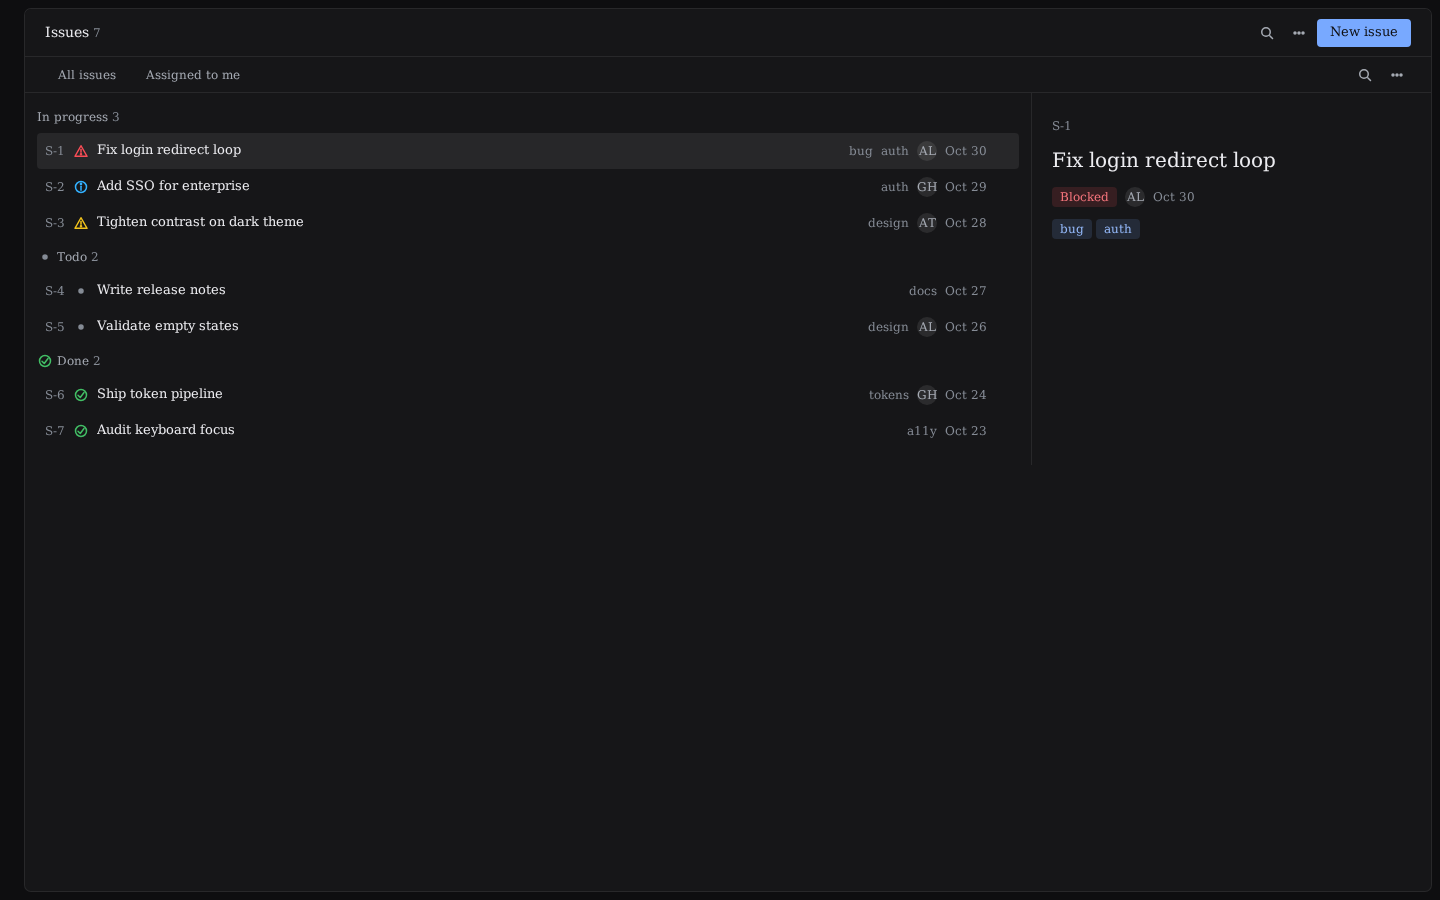
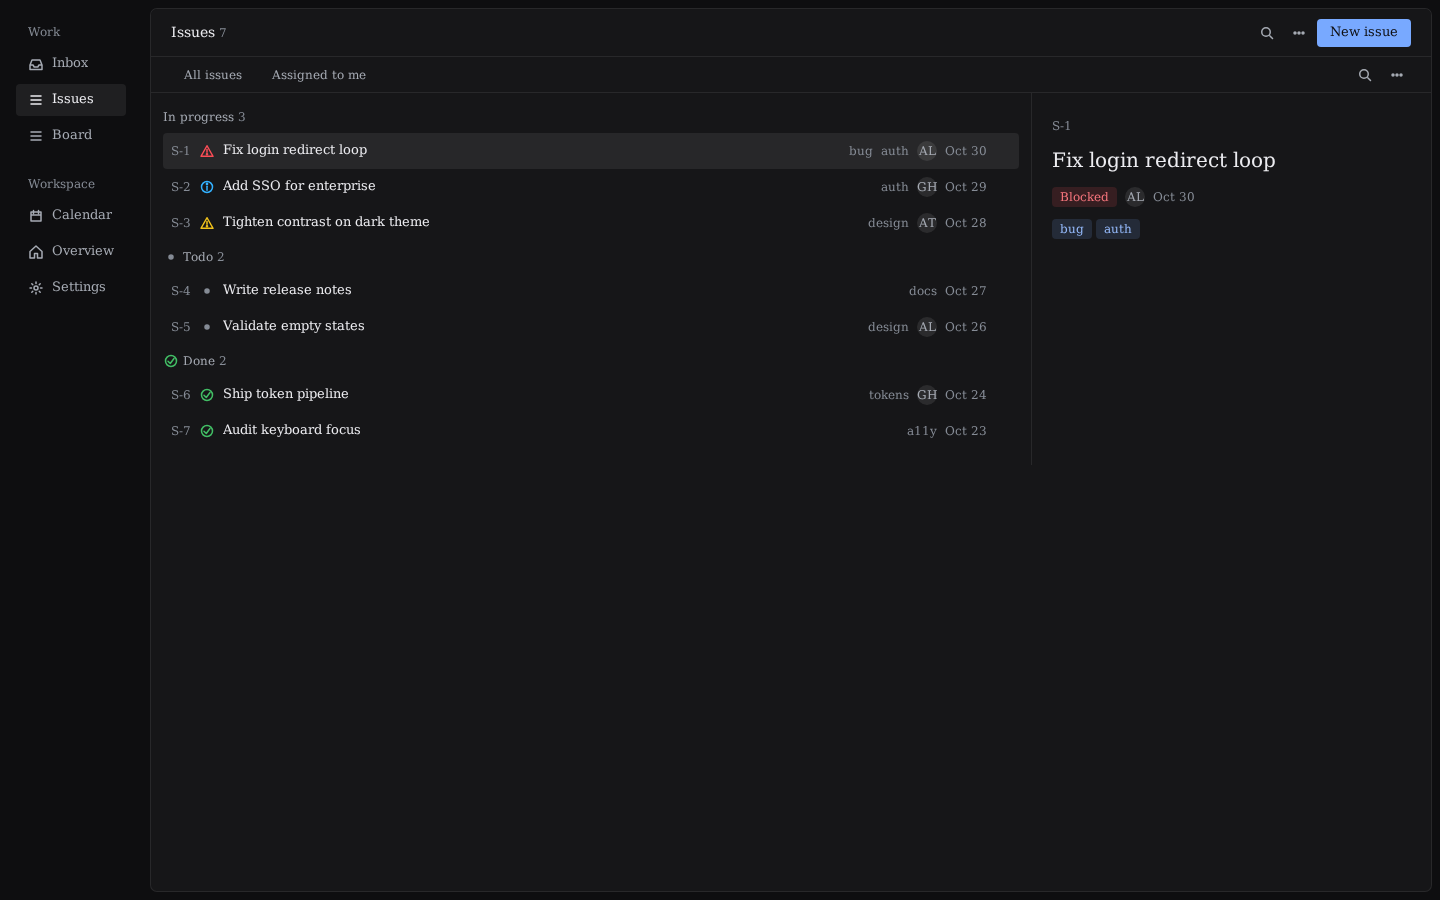
Refresh previews inside the app shell

diff --git a/docs/plans/2026-10-30-t128n-design-system.md b/docs/plans/2026-10-30-t128n-design-system.md
@@ -86,6 +86,8 @@ flowchart LR
   T29[storybook build]
   T30[settings fallback]
   T31[button class merge]
+  T32[view frame]
+  T33[views drop shell]
   %% taskgraph
   T6 --> T8
   T7 --> T9
@@ -100,6 +102,7 @@ flowchart LR
   T9 --> T21
   T10 --> T21
   T11 --> T21
+  T21 --> T33
   T8 --> T22
   T9 --> T22
   T11 --> T22
@@ -157,33 +160,35 @@ gantt
   section lane 1
   T15 Tooltip  Banner  InlineError  EmptyS :t15, 0, 218s
   T10 BoardCard and GalleryCard :t10, 218, 136s
-  T21 Issues and Board views :t21, 410, 153s
-  T26 Barrel  raw-value lint  build and do :t26, 563, 127s
+  T27 Test dependency declaration :t27, 381, 66s
+  T30 Settings switch values fall back saf :t30, 561, 93s
   section lane 2
   T7 Tag  Badge  Avatar  Progress  StatCar :t7, 0, 216s
   T9 ListRow  GroupHeader  PropertyRow  To :t9, 216, 193s
-  T22 Table database and Page views :t22, 410, 153s
+  T21 Issues and Board views :t21, 410, 153s
+  T26 Barrel  raw-value lint  build and do :t26, 563, 127s
   section lane 3
   T14 Menu  Popover  Dialog  SlashMenu :t14, 0, 201s
   T18 SearchField and Combobox :t18, 201, 145s
-  T23 Settings and Inbox views :t23, 410, 151s
-  T30 Settings switch values fall back saf :t30, 561, 93s
+  T22 Table database and Page views :t22, 410, 153s
+  T33 Issues and Board stop nesting the sh :t33, 563, 119s
   section lane 4
   T6 Select  Checkbox  Radio  Switch :t6, 0, 199s
   T8 Table :t8, 199, 123s
   T24 Overview and Calendar views :t24, 332, 151s
   section lane 5
   T12 Sidebar  Breadcrumbs  Tabs  Segmente :t12, 0, 197s
-  T2 Scaffold :t2, 197, 99s
-  T27 Test dependency declaration :t27, 296, 66s
+  T29 Storybook index and build fixes :t29, 197, 112s
+  T25 Empty workspace and Error views :t25, 332, 140s
   section lane 6
   T5 Field  Input  Textarea :t5, 0, 169s
-  T29 Storybook index and build fixes :t29, 169, 112s
-  T19 DatePicker :t19, 284, 114s
+  T32 View stories sit in the app shell :t32, 169, 113s
+  T2 Scaffold :t2, 282, 99s
+  T23 Settings and Inbox views :t23, 410, 151s
   section lane 7
   T16 Chart  CodeBlock  Callout :t16, 0, 166s
   T17 CalendarGrid :t17, 166, 118s
-  T25 Empty workspace and Error views :t25, 332, 140s
+  T19 DatePicker :t19, 284, 114s
   section lane 8
   T3 Base styles  layout skeletons  Theme  :t3, 0, 155s
   T28 Button forwards events and attribute :t28, 155, 121s
@@ -692,6 +697,36 @@ it("existing value wins", () => { render(Settings, { sections: switchSections, a
 it("merges classes", () => { render(Button, { children: text("Save"), class: "extra" }); const b = screen.getByRole("button", { name: "Save" }); expect(b.className).toContain("t128n-btn"); expect(b.className).toContain("extra"); });
 ```
 **Notes:** a spread `class` after the component's class silently drops every style; merge, spread the rest, then place `class` last.
+### T32 View stories sit in the app shell · Complexity 3
+**Owns:** `src/stories/views/**`, `tests/views-shell.test.ts`
+**Components:** 1
+**LOC owned:** 180
+**Tests:** fast
+**Model:** sonnet
+**Consumes:** AppShell.svelte from T11 · Sidebar.svelte from T12
+**Produces:** `ViewFrame.svelte` in `src/stories/views/` wrapping `AppShell` with a `Sidebar` nav (Inbox, Issues, Board, Calendar, Overview, Settings; active per view) around its children; every view story renders its view through `ViewFrame`
+**Review Focus:** `test_frame_has_nav_and_main`: `ViewFrame` renders `data-testid="app-shell-nav"` and `app-shell-main`; `test_frame_marks_active`: `active="issues"` puts `aria-current="page"` on the Issues link; `test_every_view_story_uses_frame`: every `src/stories/views/*.stories.svelte` contains `ViewFrame`
+**Test code:**
+```ts
+it("frame has shell regions", () => { render(ViewFrame, { active: "issues", children: text("Body") }); expect(screen.getByTestId("app-shell-nav")).toBeTruthy(); expect(screen.getByTestId("app-shell-main").textContent).toContain("Body"); });
+it("active nav", () => { render(ViewFrame, { active: "issues", children: text("Body") }); expect(screen.getByRole("link", { name: /Issues/ }).getAttribute("aria-current")).toBe("page"); });
+```
+**Notes:** the shell is framing, not view data: views and their tests stay unchanged. Keep each story's existing args, argTypes and docs text.
+### T33 Issues and Board stop nesting the shell · Complexity 2
+**Owns:** `src/lib/views/Issues.svelte`, `src/lib/views/Board.svelte`, `src/lib/views/views.test.ts`
+**Components:** 2
+**LOC owned:** 40
+**Tests:** fast
+**Model:** sonnet
+**Consumes:** AppShell.svelte from T11
+**Produces:** `Issues.svelte` and `Board.svelte` render their content without their own `AppShell` wrapper, so the story-level `ViewFrame` is the only shell and no empty inner nav appears
+**Review Focus:** `test_issues_no_inner_shell`: rendering Issues yields exactly one `data-testid="app-shell"` only when the caller supplies one, and none from the view; `test_board_no_inner_shell`: same for Board; `test_views_still_render`: the split and the board columns still render
+**Test code:**
+```ts
+it("issues has no shell of its own", () => { render(Issues, { issues: manyIssues, selectedId: "S-1" }); expect(screen.queryByTestId("app-shell")).toBeNull(); expect(screen.getByTestId("issues-split")).toBeTruthy(); });
+it("board has no shell of its own", () => { render(Board, { columns: manyColumns }); expect(screen.queryByTestId("app-shell")).toBeNull(); });
+```
+**Notes:** the view is the surface; the shell is the story frame. Add a stable `data-testid` only if the test needs one, and keep every existing assertion in views.test.ts green.
 ## Review Focus
 
 - tokens: numeric, encoding
@@ -735,5 +770,5 @@ Risks to probe: focus restoration after every overlay; selection vs focus never 
 - `Ruling: no axe dependency - role and accessible-name queries fail on missing labels, which is the check that matters here - an axe pass can be added without design change`
 - `Ruling: preview/pages HTML is out of scope; the view stories are the reference compositions - duplicating ten views as static HTML in the same pass adds no new information - add preview pages after the views settle`
 - `Ruling: DESIGN.md is not edited in this pass - the document is the input being implemented - fold docs/layouts.md back into §8 once the skeletons are proven`
-- `Ruling: the plan exceeds the default 15k char cap because verbatim tests were requested - lint with --max-chars 60000 - the prime carries only the sections it is given`
+- `Ruling: the plan exceeds the default 15k char cap because verbatim tests were requested - lint with --max-chars 64000 - the prime carries only the sections it is given`
 - `Ruling: build against main's DESIGN.md although feat/streamline-tokens renames several tokens - that branch is an unapproved review plan and not merged - after it lands, tokens.json is the only file that needs the rename, and the parity test names every drift`
